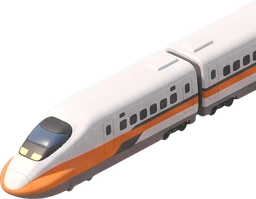
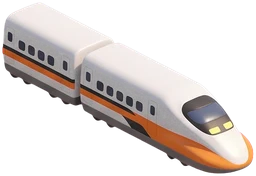
大地圖拉遠時小人和房子跟著放大、現在篇各地更熱鬧、高鐵換新圖
- 拉遠時小人在畫面上至少約 20px、房子至少約 20px（最多放大 9 倍、3.5 倍），沒縮放也看得到；拉到最遠也留每區的主角
- 點小人量到身體中間、範圍照畫面大小，不會搶走旁邊的裂縫
- 過關徽章改成各章自己的（原本都顯示八堡圳），拉到最遠先收起來
- 現在篇：新竹、臺中、彰化、嘉義、臺南、高雄、宜蘭、花蓮、臺東、墾丁加公寓、便利商店、廟、夜市、公園、風車，街上有公車、貨車、放學的小學生、夜市攤、遛狗、慢跑、騎機車
- 高鐵重產（舊圖車身被切掉一角），新圖 X-10（Gemini）

Claude-Session: https://claude.ai/code/session_01RKjj9iiRyEmxBGvXrLjy12

diff --git a/src/render/worldmap.ts b/src/render/worldmap.ts
@@ -21,6 +21,9 @@ const TAP_SLOP = 8;
 const FOG_STEP = 90; // 雲一團一團的間距（原圖像素）
 const SEA = 0x58b4d8;
 const LABEL_PX = 14; // 地圖上章名的字在畫面上幾 px
+// 拉遠時小人和房子跟著放大，手機沒縮放也看得到：小人在畫面上至少這麼高、房子至少這麼寬（最多放大幾倍）
+const PERSON_PX = 20, PERSON_MAX = 9;
+const THING_PX = 20, THING_MAX = 3.5;
 
 export type RiftState = 'open' | 'locked' | 'hook' | 'done';
 
@@ -98,6 +101,7 @@ function rng(seed: number) {
 // 大地圖一打開就要用的圖（進場進度條也照這份先讀好，見 ui/Island.tsx firstScreenImages）
 function mapImageNames(): Set<string> {
   const names = new Set<string>(['m01', 'm01-relief', 'rift', 'badge-canal', 't2-water', 't2-dirt', 'smoke', 'm2-paddy-green', 'm2-paddy-gold']);
+  for (const ch of CHAPTERS) names.add(`badge-${ch.badge}`);
   for (const L of Object.values(LIFE)) {
     for (const d of [...L!.buildings, ...(L!.scenery ?? [])]) names.add(d.name);
     for (const c of L!.cycles ?? []) for (const f of c.frames) names.add(f);
@@ -346,7 +350,7 @@ export async function createWorldMap(host: HTMLElement, opt: WorldMapOptions): P
       const k = art.height / sp.texture.height;
       sp.scale.set(k);
       box.addChild(sp);
-      return { def, sp, k, ph: i * 1.7, at: def.at ?? def.path![0] };
+      return { def, sp, k, ph: i * 1.7, at: def.at ?? def.path![0], big: 1 };
     });
     // 圳道裡的水往下游流：水面上幾道反光，順著圳道往下游漂（不要太多，免得像虛線）
     const canalLens = (L.canal ?? []).map((line) => {
@@ -432,7 +436,7 @@ export async function createWorldMap(host: HTMLElement, opt: WorldMapOptions): P
     const rift = new Sprite(tex.rift);
     rift.anchor.set(0.5, 1);
     rift.scale.set(72 / rift.texture.height);
-    const badge = new Sprite(tex['badge-canal']);
+    const badge = new Sprite(tex[`badge-${ch.badge}`]);
     badge.anchor.set(0.5, 1);
     badge.scale.set(44 / badge.texture.height);
     badge.visible = false;
@@ -478,6 +482,8 @@ export async function createWorldMap(host: HTMLElement, opt: WorldMapOptions): P
       r.label.position.set(up ? -20 : 0, up ? -36 : 4 / (vs * k));
       // 拉到看得到整座島時字會疊在一起，只留發光的章
       r.label.visible = r.state === 'done' ? z > 0.7 && z < 2 : lit || z > 1.8;
+      // 過關的徽章拉到最遠時先收起來，讓長出來的村子和小人露出來（下面時間軸有打勾）
+      r.badge.visible = r.state === 'done' && z > 0.7;
     }
     for (const p of placeList) {
       const k = clamp(48 * vs, 44, 84) / (48 * vs);
@@ -524,19 +530,30 @@ export async function createWorldMap(host: HTMLElement, opt: WorldMapOptions): P
     const [p, q] = [...fingers.values()];
     return { d: Math.hypot(p.x - q.x, p.y - q.y) || 1, mx: (p.x + q.x) / 2, my: (p.y + q.y) / 2 };
   };
+  // 點到哪個小人：量到身體中間，範圍跟著小人在畫面上的大小（拉遠時小人放大了，也不會把旁邊的裂縫搶走）
+  const actorAt = (ls: ReturnType<typeof makeLife>[], w: Pt): ActorDef | null => {
+    let best: ActorDef | null = null, bd = Infinity;
+    for (const L of ls) {
+      if (!L.box.visible) continue;
+      for (const a of L.actors) {
+        if (!a.sp.visible) continue;
+        const h = ACTOR_ART[a.def.kind].height * a.big;
+        const d = Math.hypot(w.x - a.at.x, w.y - (a.at.y - h / 2));
+        if (d < Math.max(h * 0.7, 10 / view.scale) && d < bd) { bd = d; best = a.def; }
+      }
+    }
+    return best;
+  };
   const hitAt = (w: Pt): Hit | null => {
-    const r = Math.max(8, 26 / view.scale);
     if (era === 'now') {
-      const vis = [...nowLives.values()].filter((L) => L.box.visible).flatMap((L) => L.actors).filter((a) => a.sp.visible).map((a) => ({ at: a.at, a }));
-      const got = nearest(vis, { x: w.x, y: w.y - 6 }, r);
-      if (got) return { kind: 'actor', actor: got.a.def };
+      const got = actorAt([...nowLives.values()], w);
+      if (got) return { kind: 'actor', actor: got };
       const ph = nearest(placeList.map((p) => ({ at: { x: p.at.x, y: p.at.y - 12 * p.box.scale.x }, p })), w, Math.max(30, 50 / view.scale) * (placeList[0]?.box.scale.x ?? 1));
       return ph ? { kind: 'place', id: ph.p.id } : null;
     }
     if (!relief.visible) {
-      const vis = [...lives.values()].filter((L) => L.box.visible).flatMap((L) => L.actors).filter((a) => a.sp.visible).map((a) => ({ at: a.at, a }));
-      const got = nearest(vis, { x: w.x, y: w.y - 6 }, r);
-      if (got) return { kind: 'actor', actor: got.a.def };
+      const got = actorAt([...lives.values()], w);
+      if (got) return { kind: 'actor', actor: got };
     }
     const rr = riftList.map((x) => ({ at: { x: x.box.x, y: x.box.y - 30 * x.box.scale.x }, x }));
     const rh = nearest(rr, w, Math.max(30, 50 / view.scale) * riftList[0].box.scale.x);
@@ -652,6 +669,8 @@ export async function createWorldMap(host: HTMLElement, opt: WorldMapOptions): P
     const phase = t / SEASON_SECONDS;
     const look = paddyLook(phase);
     const season = seasonAt(phase);
+    const vs = view.scale;
+    const bigT = clamp(THING_PX / (28 * vs), 1, THING_MAX);
     for (const L of [...(life.visible ? lives.values() : []), ...(nowLayer.visible ? nowLives.values() : [])]) {
       if (!L.box.visible) continue;
       // 建設長出來：從 0 彈到原本大小
@@ -660,15 +679,16 @@ export async function createWorldMap(host: HTMLElement, opt: WorldMapOptions): P
         for (const g of L.grow) {
           const k = clamp((u - g.delay) / 0.5, 0, 1);
           const s = k < 1 ? k * (1 + 0.25 * Math.sin(k * Math.PI)) : 1;
-          g.sp.scale.set(g.k * s * (g.flip ? -1 : 1), g.k * s);
+          g.sp.scale.set(g.k * s * bigT * (g.flip ? -1 : 1), g.k * s * bigT);
         }
-        if (u > 3) { L.growing = null; for (const g of L.grow) g.sp.scale.set(g.k * (g.flip ? -1 : 1), g.k); }
+        if (u > 3) L.growing = null;
       }
       if (!L.growing) {
+        for (const g of L.grow) g.sp.scale.set(g.k * bigT * (g.flip ? -1 : 1), g.k * bigT);
         for (const p of L.paddies) { p.green.alpha = look.green; p.gold.alpha = look.gold; }
         for (const f of L.fire) {
           const w = 1 + 0.06 * Math.sin(t * 9 + f.ph) + 0.04 * Math.sin(t * 23 + f.ph * 2);
-          f.sp.scale.set(f.k * w * (f.flip ? -1 : 1), f.k * (2 - w));
+          f.sp.scale.set(f.k * bigT * w * (f.flip ? -1 : 1), f.k * bigT * (2 - w));
           f.sp.alpha = 0.85 + 0.15 * Math.sin(t * 13 + f.ph);
         }
         for (const c of L.cycles) {
@@ -677,7 +697,7 @@ export async function createWorldMap(host: HTMLElement, opt: WorldMapOptions): P
           if (i !== c.cur) { c.cur = i; c.t0 = t; c.sp.texture = tex[c.c.frames[i]]; }
           const u = clamp((t - c.t0) / 0.4, 0, 1);
           const pop = u < 1 ? 0.7 + 0.3 * u + 0.15 * Math.sin(u * Math.PI) : 1;
-          c.sp.scale.set(c.k * pop);
+          c.sp.scale.set(c.k * bigT * pop);
         }
       }
       L.drawFlow(t);
@@ -703,10 +723,11 @@ export async function createWorldMap(host: HTMLElement, opt: WorldMapOptions): P
           else name = Math.floor((t + a.ph) / 3) % 3 === 0 ? art.walk[Math.floor(t * 4) % art.walk.length] : art.idle;
         }
         if (a.sp.texture !== tex[name]) a.sp.texture = tex[name];
-        const k = art.height / a.sp.texture.height;
+        a.big = clamp(PERSON_PX / (art.height * vs), 1, PERSON_MAX);
+        const k = (art.height / a.sp.texture.height) * a.big;
         a.sp.scale.set(left ? -k : k, k);
         if (art.fly) bob = 3 + Math.sin((t + a.ph) * 3) * 1.5;
-        a.sp.position.set(a.at.x, a.at.y - bob);
+        a.sp.position.set(a.at.x, a.at.y - bob * a.big);
         a.sp.zIndex = art.fly ? 20000 : a.at.y;
       }
     }

diff --git a/src/data/now.ts b/src/data/now.ts
@@ -33,6 +33,28 @@ const BASE_NOW: ChapterLife = {
     { name: 'y1-6', at: { x: 1150, y: 1890 }, width: 38 },
     { name: 'y1-7', at: { x: 1060, y: 2470 }, width: 40 },
     { name: 'y1-2', at: { x: 2380, y: 220 }, width: 46 },
+    // 各地的小鎮：公寓、便利商店、廟、夜市、公園（X-10 與 Y-01）
+    { name: 'x9-8', at: { x: 1680, y: 580 }, width: 22 },
+    { name: 'x10-4', at: { x: 1645, y: 612 }, width: 20 },
+    { name: 'x9-8', at: { x: 1405, y: 1245 }, width: 24 },
+    { name: 'x10-4', at: { x: 1350, y: 1222 }, width: 20 },
+    { name: 'x9-5', at: { x: 1425, y: 1290 }, width: 28 },
+    { name: 'y1-6', at: { x: 1165, y: 1352 }, width: 30 },
+    { name: 'y1-7', at: { x: 1235, y: 1385 }, width: 34 },
+    { name: 'x9-8', at: { x: 1290, y: 1345 }, width: 22 },
+    { name: 'x9-8', at: { x: 1212, y: 1952 }, width: 22 },
+    { name: 'x10-4', at: { x: 1186, y: 1990 }, width: 20 },
+    { name: 'y1-6', at: { x: 992, y: 2402 }, width: 28 },
+    { name: 'x9-8', at: { x: 1112, y: 2422 }, width: 22 },
+    { name: 'x9-8', at: { x: 1302, y: 2772 }, width: 24 },
+    { name: 'y1-7', at: { x: 1182, y: 2762 }, width: 32 },
+    { name: 'x9-8', at: { x: 2382, y: 640 }, width: 22 },
+    { name: 'y1-6', at: { x: 2340, y: 662 }, width: 26 },
+    { name: 'x9-8', at: { x: 2242, y: 1424 }, width: 22 },
+    { name: 'x10-4', at: { x: 2212, y: 1452 }, width: 20 },
+    { name: 'y1-6', at: { x: 1832, y: 2660 }, width: 24 },
+    { name: 'x10-4', at: { x: 1802, y: 2692 }, width: 20 },
+    { name: 'x9-5', at: { x: 1440, y: 3440 }, width: 24 },
   ],
   scenery: [
     { name: 'y1-5', at: { x: 1060, y: 1250 }, width: 12 },
@@ -40,6 +62,10 @@ const BASE_NOW: ChapterLife = {
     { name: 'y1-5', at: { x: 1030, y: 1350 }, width: 12 },
     { name: 'y2-5', at: { x: 1100, y: 1560 }, width: 35 },
     { name: 'x9-5', at: { x: 1300, y: 2870 }, width: 30 },
+    { name: 'y1-5', at: { x: 1398, y: 3478 }, width: 10 },
+    { name: 'y1-5', at: { x: 1420, y: 3505 }, width: 10 },
+    { name: 'x10-10', at: { x: 1378, y: 1270 }, width: 15 },
+    { name: 'x10-10', at: { x: 1268, y: 1408 }, width: 14 },
   ],
   actors: [
     { kind: 'hsr', path: HSR_LINE, speed: 40, who: '高鐵', says: '臺北到高雄，現在最快大約一個半小時。', lod: 0 },
@@ -47,6 +73,21 @@ const BASE_NOW: ChapterLife = {
     { kind: 'scooter', path: [{ x: 2150, y: 450 }, { x: 2200, y: 470 }, { x: 2250, y: 450 }], speed: 12, who: '騎機車的阿姨', says: '騎車一定要戴安全帽，不戴會被開罰單喔。', lod: 1 },
     { kind: 'family', path: [{ x: 1280, y: 2880 }, { x: 1310, y: 2900 }, { x: 1340, y: 2890 }], speed: 5, who: '來散步的一家人', says: '週末到港邊的公園走走，可以看到大貨櫃輪進港。', lod: 1 },
     { kind: 'gull', path: [{ x: 2440, y: 260 }, { x: 2500, y: 320 }, { x: 2560, y: 380 }, { x: 2500, y: 440 }], speed: 20, who: '海鷗', says: '啾～（東北角的海邊，風好大！）', lod: 2 },
+    // 各地街上的人和車
+    { kind: 'bus', path: [{ x: 1385, y: 1258 }, { x: 1300, y: 1305 }, { x: 1205, y: 1352 }], speed: 10, who: '公車', says: '公車一站一站停，上學、去市場都很方便。', lod: 0 },
+    { kind: 'truck', path: [{ x: 1150, y: 2882 }, { x: 1222, y: 2832 }, { x: 1292, y: 2795 }], speed: 8, who: '送貨的小貨車', says: '港口的貨櫃卸下來，再用貨車送到全臺灣的商店。', lod: 1 },
+    { kind: 'students', path: [{ x: 1082, y: 2450 }, { x: 1112, y: 2468 }, { x: 1142, y: 2458 }], speed: 3, who: '放學的小學生', says: '我們學校旁邊就是好幾百年的老廟！', lod: 0 },
+    { kind: 'vendor', at: { x: 1182, y: 2792 }, who: '夜市的小吃攤老闆', says: '晚上的夜市最熱鬧了，要不要來一份烤玉米？', lod: 1 },
+    { kind: 'dogwalker', path: [{ x: 1640, y: 632 }, { x: 1682, y: 652 }, { x: 1722, y: 640 }], speed: 4, who: '遛狗的姐姐', says: '科學園區下班以後，帶柴柴出來散步。', lod: 1 },
+    { kind: 'jogger', path: [{ x: 2120, y: 470 }, { x: 2160, y: 500 }, { x: 2205, y: 522 }], speed: 9, who: '在河濱慢跑的哥哥', says: '臺北的河邊有長長的自行車道和跑道。', lod: 0 },
+    { kind: 'jogger', path: [{ x: 2215, y: 1440 }, { x: 2245, y: 1470 }, { x: 2270, y: 1500 }], speed: 8, who: '在花蓮海邊慢跑的人', says: '早上的太平洋好漂亮，太陽從海上升起來。', lod: 1 },
+    { kind: 'scooter', path: [{ x: 1330, y: 1205 }, { x: 1400, y: 1225 }, { x: 1455, y: 1205 }], speed: 12, who: '騎機車上班的叔叔', says: '臺中的路好寬，早上大家都騎車上班。', lod: 0 },
+    { kind: 'scooter', path: [{ x: 1170, y: 1970 }, { x: 1215, y: 1985 }, { x: 1255, y: 1970 }], speed: 11, who: '騎機車的大學生', says: '嘉義的雞肉飯超有名，你吃過嗎？', lod: 1 },
+    { kind: 'family', at: { x: 2360, y: 690 }, who: '來宜蘭玩的一家人', says: '冬天東北季風來，宜蘭常常下雨，可是溫泉好舒服。', lod: 1 },
+    { kind: 'students', path: [{ x: 2192, y: 1470 }, { x: 2222, y: 1482 }, { x: 2250, y: 1470 }], speed: 3, who: '花蓮的小學生', says: '我們學校有好多原住民同學，會跳很棒的舞。', lod: 2 },
+    { kind: 'tourist', at: { x: 1810, y: 2715 }, who: '來臺東看熱氣球的遊客', says: '夏天臺東的鹿野高台會放熱氣球喔！', lod: 1 },
+    { kind: 'bus', path: [{ x: 2160, y: 455 }, { x: 2215, y: 470 }, { x: 2265, y: 452 }], speed: 9, who: '臺北的公車', says: '臺北有捷運也有公車，到哪裡都好方便。', lod: 1 },
+    { kind: 'family', at: { x: 1465, y: 3460 }, who: '在墾丁玩水的一家人', says: '臺灣最南邊的海好藍，好多人來這裡玩水。', lod: 1 },
   ],
 };
 

diff --git a/src/data/world.ts b/src/data/world.ts
@@ -103,7 +103,8 @@ export type ActorKind = 'farmer' | 'carrier' | 'worker' | 'buffalo' | 'hen' | 'd
   | 'hsiung' | 'hsiungGate' | 'hatta' | 'shaoElder' | 'sugarTrain'
   | 'afu' | 'afuCarry' | 'uma' | 'clerk3' | 'friar3' | 'vocShip' | 'junkShip'
   | 'an' | 'anMic' | 'agong' | 'engineer' | 'hsr'
-  | 'tourist' | 'scooter' | 'family' | 'gull' | 'tra';
+  | 'tourist' | 'scooter' | 'family' | 'gull' | 'tra'
+  | 'bus' | 'truck' | 'students' | 'vendor' | 'dogwalker' | 'jogger';
 export interface ActorDef {
   kind: ActorKind;
   path?: Pt[];
@@ -205,6 +206,13 @@ export const ACTOR_ART: Record<ActorKind, { walk: string[]; idle: string; work?:
   family: { walk: ['y3-8'], idle: 'y3-8', height: 15 },
   gull: { walk: ['y3-7'], idle: 'y3-7', fly: true, height: 8 },
   tra: { walk: ['y2-4'], idle: 'y2-4', height: 14 },
+  // 今天的街上（X-10）
+  bus: { walk: ['x10-2'], idle: 'x10-2', height: 14 },
+  truck: { walk: ['x10-3'], idle: 'x10-3', height: 13 },
+  students: { walk: ['x10-5'], idle: 'x10-5', height: 14 },
+  vendor: { walk: ['x10-6'], idle: 'x10-6', height: 15 },
+  dogwalker: { walk: ['x10-7'], idle: 'x10-7', height: 15 },
+  jogger: { walk: ['x10-8', 'x10-12'], idle: 'x10-8', height: 15 },
 };
 
 // 聚落周圍的樹、竹林、蘆葦，圳頭的攔水堰（O-04、O-02）。flip＝左右翻過來，看起來不會一模一樣

diff --git a/src/core/world.ts b/src/core/world.ts
@@ -130,8 +130,7 @@ export function walker(path: readonly Pt[], speed: number, t: number, rest = 2):
 
 // 拉遠只留幾個，拉近才全部出來：zoom 是目前放大倍數÷「放得下整張」的倍數
 export function lodLevel(zoom: number): number {
-  if (zoom < 1.6) return -1; // 太遠了，小人小到看不見，全部藏起來
-  if (zoom < 2.4) return 0;
+  if (zoom < 2.4) return 0; // 拉到最遠也留幾個主角（畫面上會自動放大，看得到）
   if (zoom < 3.2) return 1;
   if (zoom < 4) return 2;
   return 3;

diff --git a/src/core/world.test.ts b/src/core/world.test.ts
@@ -70,7 +70,7 @@ describe('小人沿路走', () => {
 
 describe('拉遠只留幾個', () => {
   it('越放大出來越多', () => {
-    expect(lodLevel(1)).toBe(-1);
+    expect(lodLevel(0.4)).toBe(0);
     expect(lodLevel(2)).toBe(0);
     expect(lodLevel(5)).toBe(3);
   });
